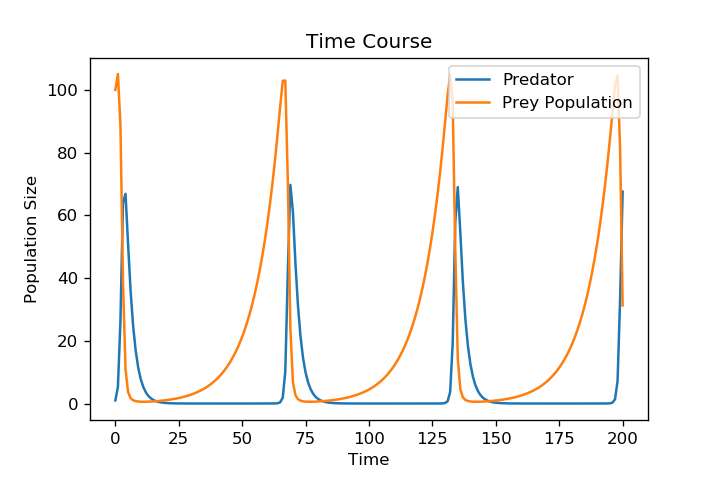
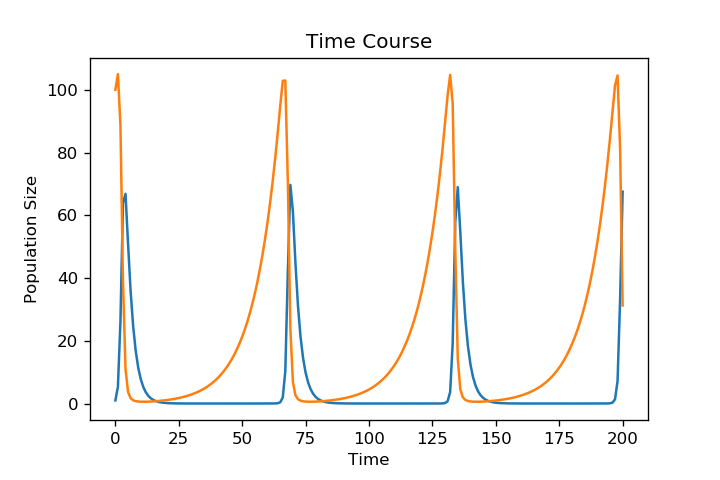
Improved code

Changed region(s): [[0.6111, 0.125, 0.8861, 0.25]]

diff --git a/Practical13/Practical13.py b/Practical13/Practical13.py
@@ -12,49 +12,49 @@ import numpy as np
 import matplotlib.pyplot as plt
 
 #Convert the xml file to cps
-#def xml_to_cps():
-#    os.system("C:\GitKraken\IBI1_2018-19\Practical13\CopasiSE -i predator-prey.xml -s predator-prey.cps")
+def xml_to_cps():
+    os.system("C:\GitKraken\IBI1_2018-19\Practical13\CopasiSE -i predator-prey.xml -s predator-prey.cps")
     
-#    cpsTree = xml.dom.minidom.parse("predator-prey.cps")
-#    cpsCollection = cpsTree.documentElement
+    cpsTree = xml.dom.minidom.parse("predator-prey.cps")
+    cpsCollection = cpsTree.documentElement
     
-#    reportFile = xml.dom.minidom.parse("report_ref.xml")
-#    reportLine = reportFile.documentElement
+    reportFile = xml.dom.minidom.parse("report_ref.xml")
+    reportLine = reportFile.documentElement
     
-#    tasks = cpsCollection.getElementsByTagName("Task")
-#    for task in tasks:
-#        if task.getAttribute("name")=="Time-Course":
-#            task.setAttribute("scheduled","true")
-#            task.insertBefore(reportLine,task.childNodes[0])
-#            break
+    tasks = cpsCollection.getElementsByTagName("Task")
+    for task in tasks:
+        if task.getAttribute("name")=="Time-Course":
+            task.setAttribute("scheduled","true")
+            task.insertBefore(reportLine,task.childNodes[0])
+            break
         
     
-#    for taskDetails in task.childNodes:
-#        if taskDetails.nodeType ==1:
-#            if taskDetails.nodeName == "Problem":
-#                problem = taskDetails
+    for taskDetails in task.childNodes:
+        if taskDetails.nodeType ==1:
+            if taskDetails.nodeName == "Problem":
+                problem = taskDetails
                 
-#    for param in problem.childNodes:
-#        if param.nodeType ==1:
-#            if param.getAttribute("name")=="StepNumber":
-#                param.setAttribute("value","200")
-#            if param.getAttribute("name")=="StepSize":
-#                param.setAttribute("value","1")
-#            if param.getAttribute("name")=="Duration":
-#                param.setAttribute("value","200")
+    for param in problem.childNodes:
+        if param.nodeType ==1:
+            if param.getAttribute("name")=="StepNumber":
+                param.setAttribute("value","200")
+            if param.getAttribute("name")=="StepSize":
+                param.setAttribute("value","1")
+            if param.getAttribute("name")=="Duration":
+                param.setAttribute("value","200")
            
             
-#    report18 = xml.dom.minidom.parse("report18.xml")
-#    report = report18.documentElement
+    report18 = xml.dom.minidom.parse("report18.xml")
+    report = report18.documentElement
     
-#    listOfReports  =  cpsCollection.getElementsByTagName("ListOfReports")[0]
-#    listOfReports.appendChild(report)
+    listOfReports  =  cpsCollection.getElementsByTagName("ListOfReports")[0]
+    listOfReports.appendChild(report)
     
-#    cpsFile = open("predator-prey.cps","w", encoding = "utf-8")
-#    cpsTree.writexml(cpsFile)
-#    cpsFile.close()
+    cpsFile = open("predator-prey.cps","w", encoding = "utf-8")
+    cpsTree.writexml(cpsFile)
+    cpsFile.close()
     
-#xml_to_cps()
+xml_to_cps()
 
 #Reading and plotting simulation results
 model = pd.read_csv("modelResults.csv")
@@ -81,7 +81,6 @@ plt.plot(header[2], label = "Prey Population")
 plt.xlabel('Time')
 plt.ylabel('Population Size')
 plt.title('Time Course')
-plt.legend()
 #gcf : get current figure
 plt.gcf()
 plt.show
@@ -94,7 +93,6 @@ plt.plot(header[1], header[2])
 plt.xlabel('Predator Population')
 plt.ylabel('Prey Population')
 plt.title('Limit Cycle')
-plt.legend()
 #gcf : get current figure
 plt.gcf()
 plt.show
